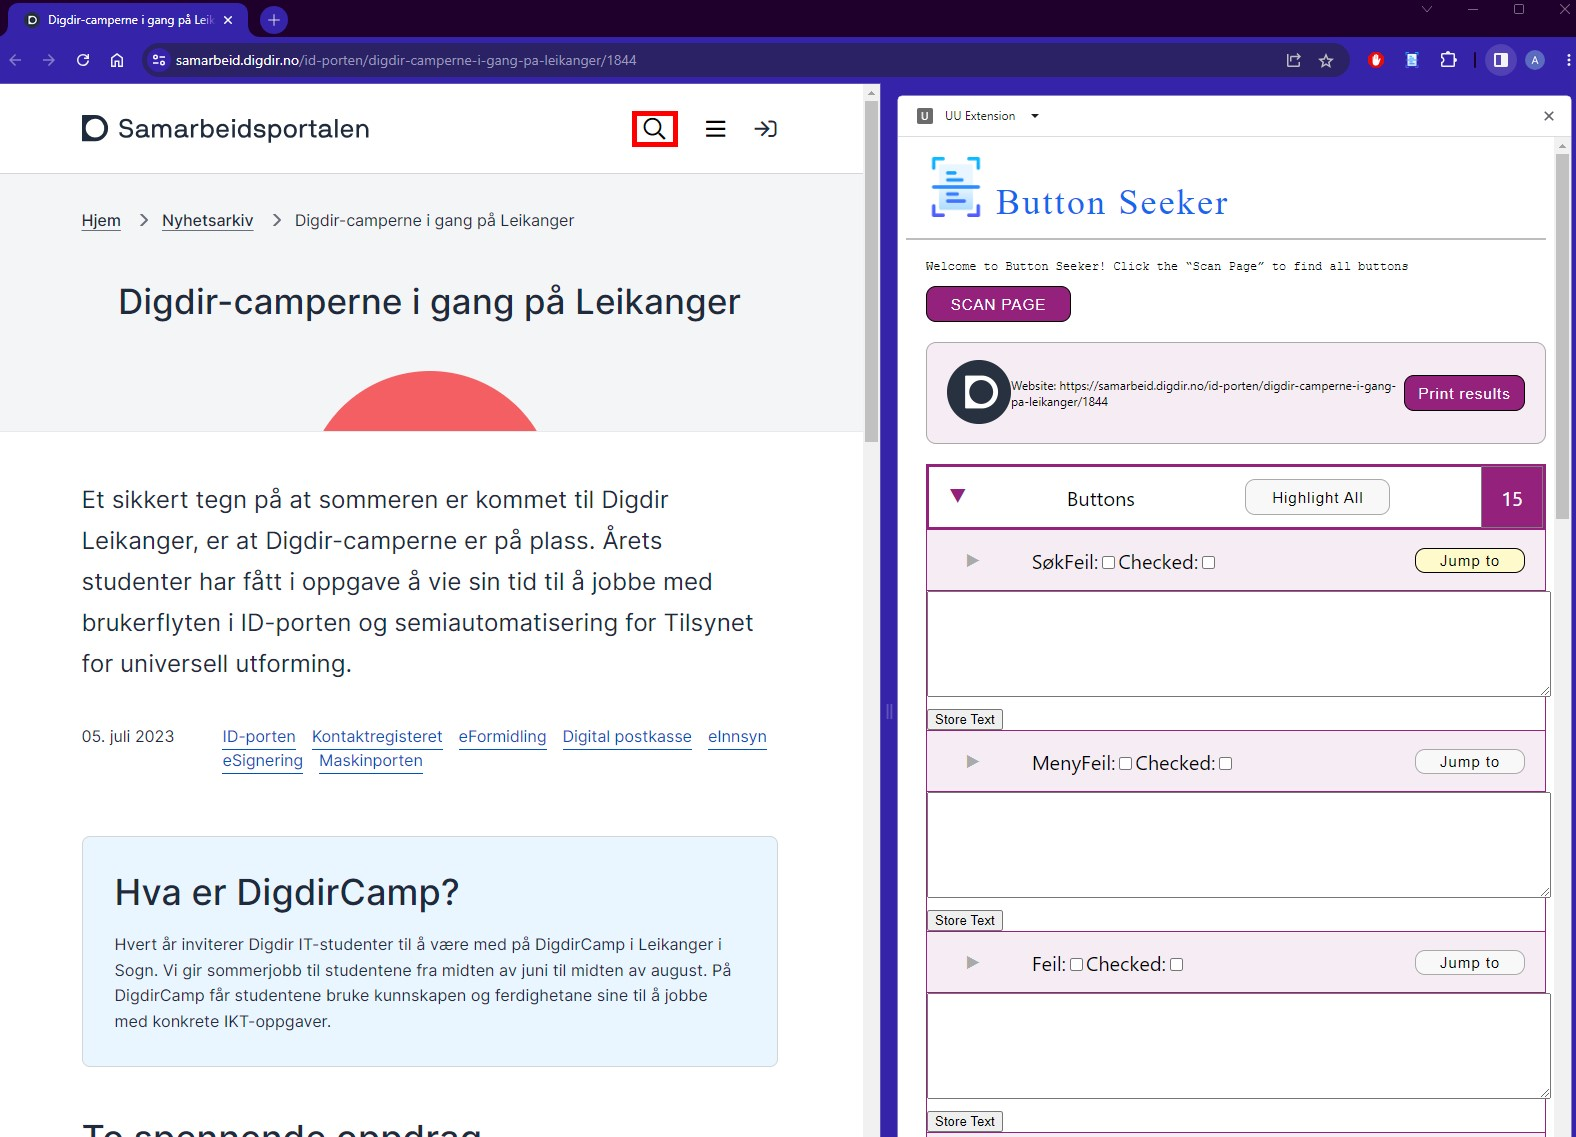
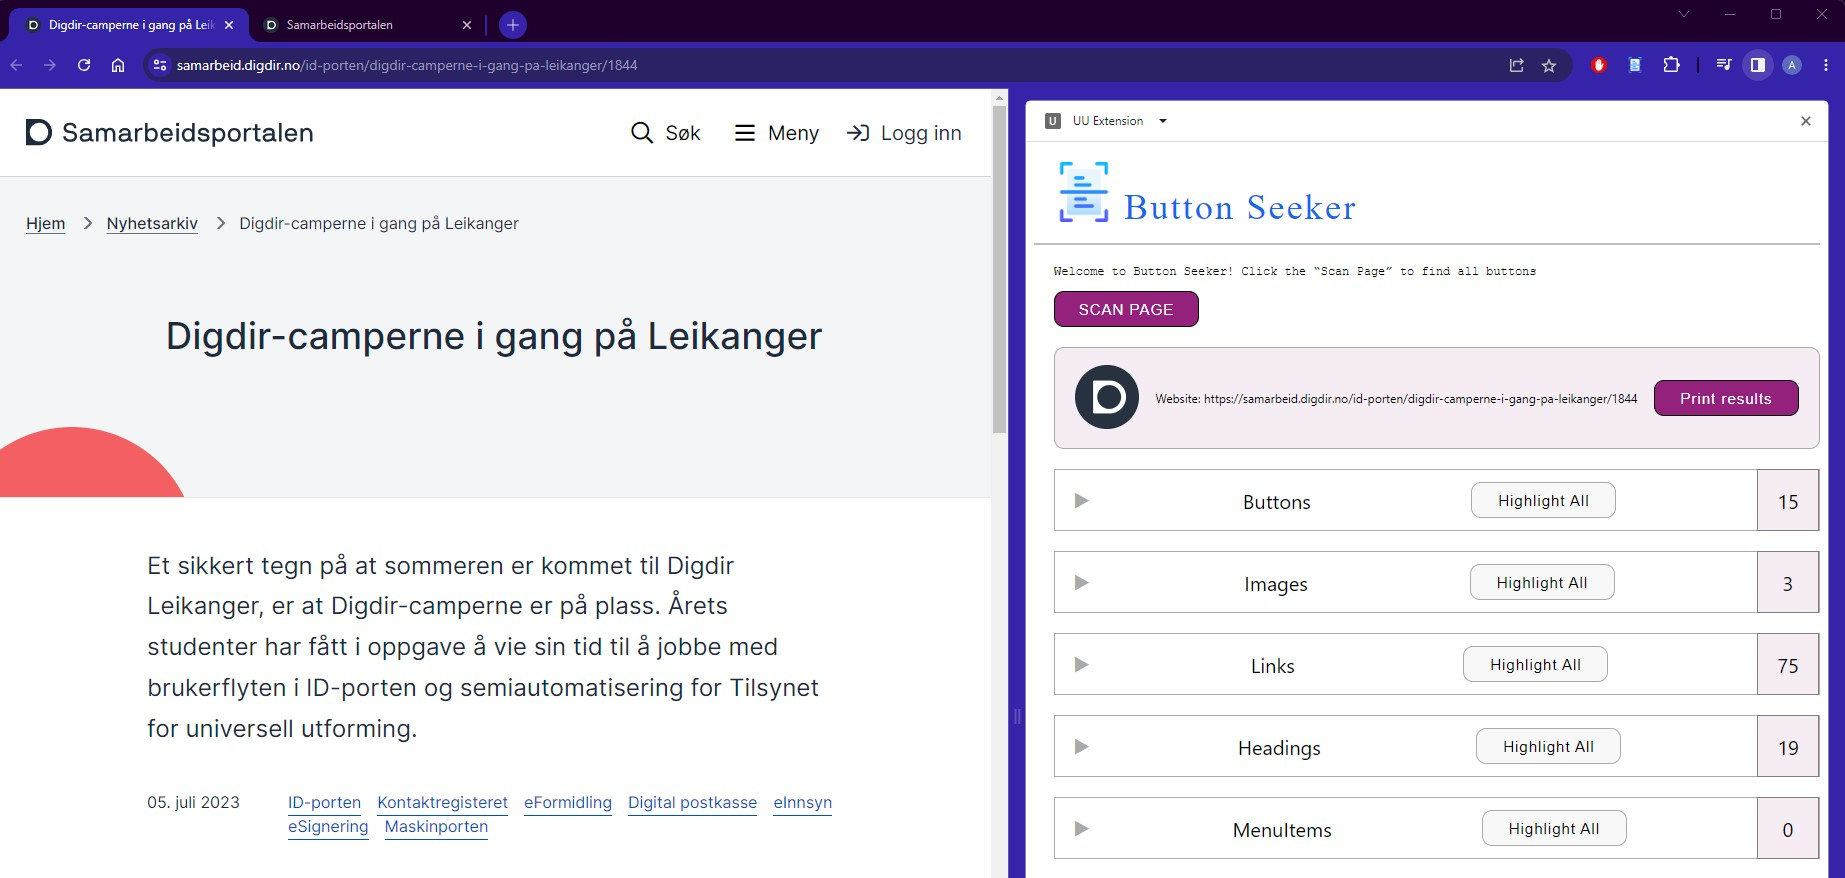
Adjusted image

diff --git a/README.md b/README.md
@@ -59,7 +59,7 @@ To set up the extension, follow these steps:
 
 ![Extension screenshot: gtml preview feature](/images/extension_screenshot6.jpg)
 
-5. If you wish to inspect the data in another tab, you can click on "View in table".
+5. If you wish to inspect the data in another tab, you can click on "Print results".
 
 ![Extension screenshot: click on print results](/images/utkast8.jpg)
 
